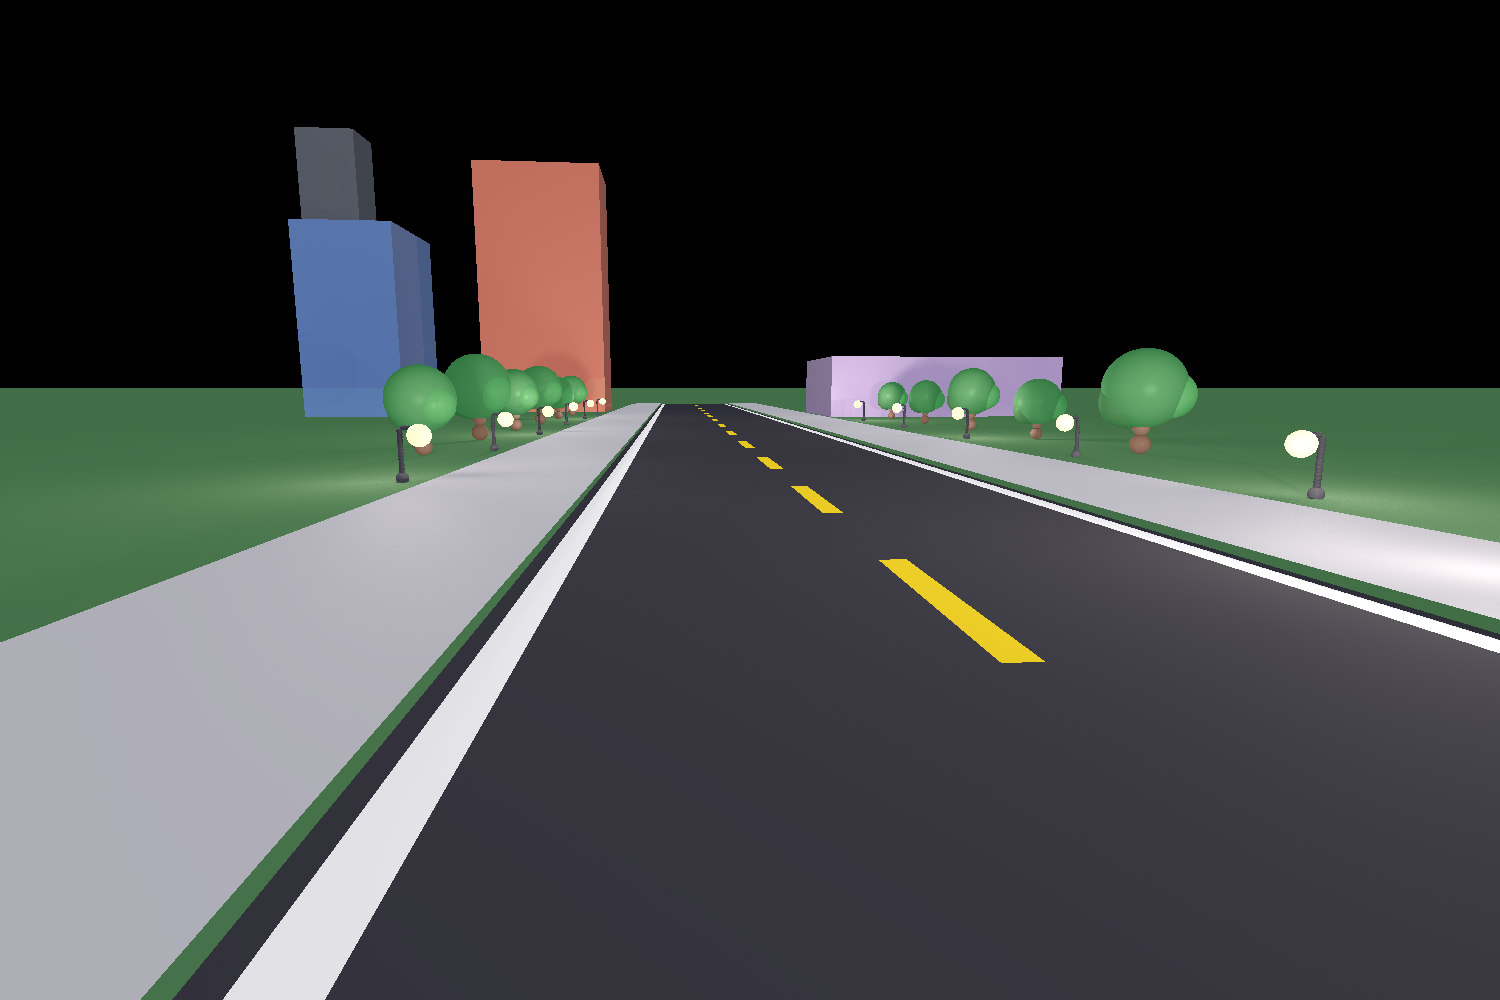
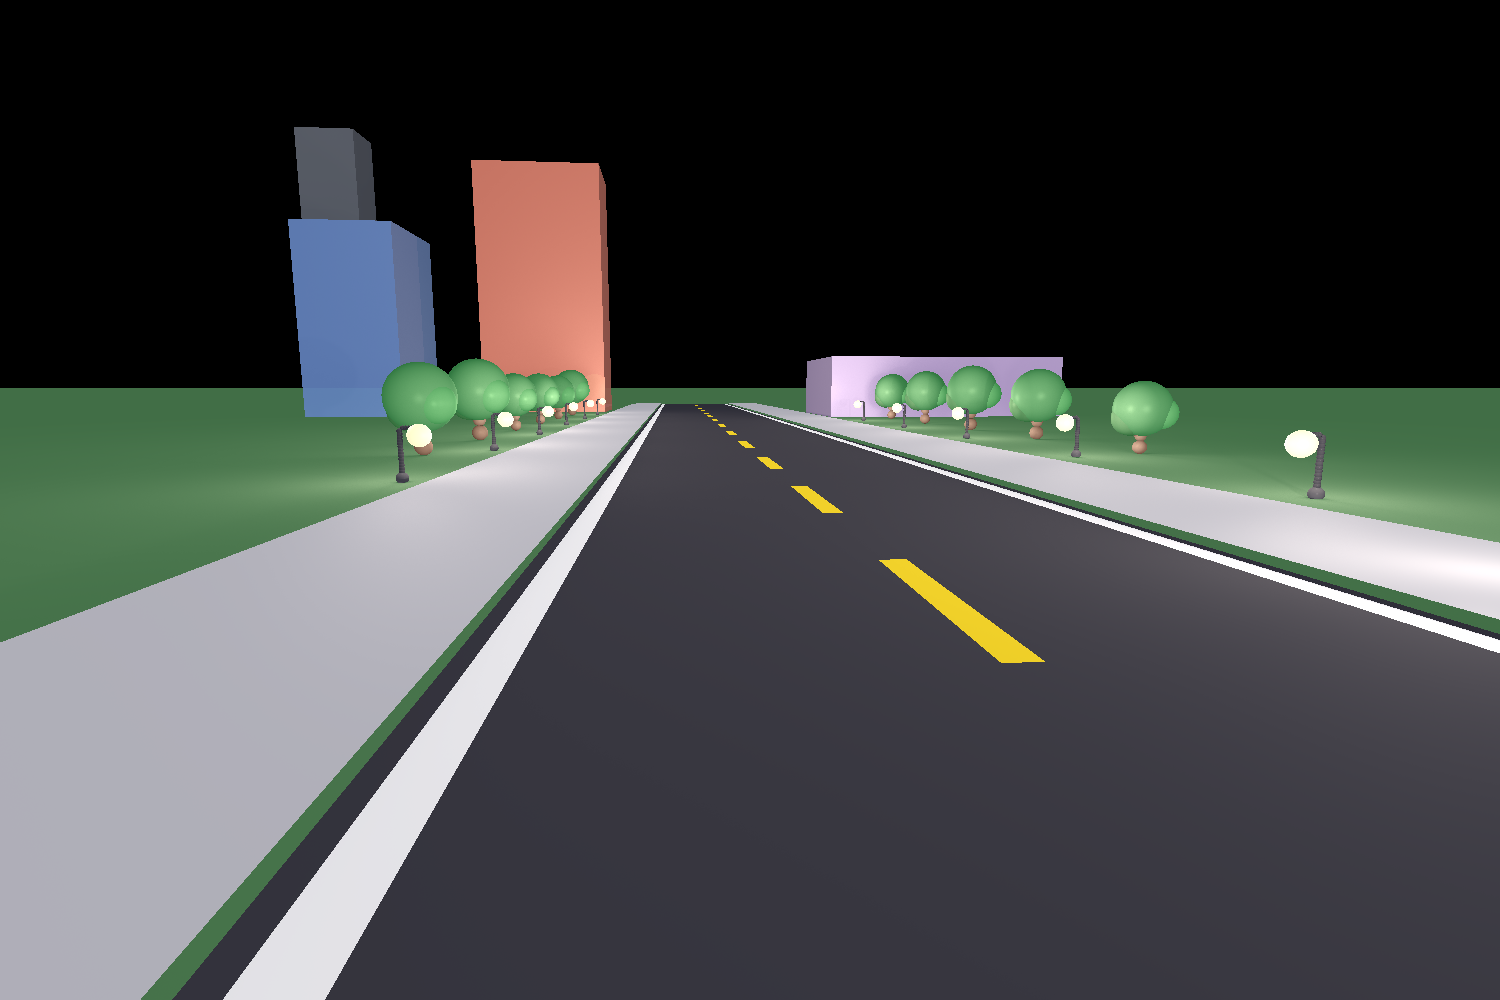
super extra soft shadow

diff --git a/unittests/renderer/StreetSceneTest.java b/unittests/renderer/StreetSceneTest.java
@@ -115,42 +115,45 @@ public class StreetSceneTest {
         scene.geometries.add(geometries.toArray(new Intersectable[0]));
 
         // ===== Lighting =====
-        scene.setAmbientLight(new AmbientLight(new Color(20,20,25)));
-        scene.lights.add(new DirectionalLight(new Color(90,80,70), new Vector(0.4,-0.6,-0.7)));
-        scene.lights.add(new DirectionalLight(new Color(30,35,40), new Vector(-0.2,-0.3,0.5)));
+        scene.setAmbientLight(new AmbientLight(new Color(20, 20, 25)));
+        scene.lights.add(new DirectionalLight(new Color(90, 80, 70), new Vector(0.4, -0.6, -0.7)));
+        scene.lights.add(new DirectionalLight(new Color(30, 35, 40), new Vector(-0.2, -0.3, 0.5)));
 
-        // soft-area street lamps: 300 samples each
-        for (int i = 0; i < 6; i += 2) {
+// soft-area street lamps: 300 samples each
+        for (int i = 0; i < 6; i++) {
             double zLeft  = -40 - i * 50;
             double zRight = zLeft + 25;
             scene.lights.add(
-                    new PointLight(new Color(100,90,80), new Point(-50,8,zLeft))
+                    new PointLight(new Color(100, 90, 80), new Point(-50, 8, zLeft))
                             .setKl(0.001).setKq(0.0005)
-                            .setRadius(2.0).setNumSamples(81)
+                            .setRadius(10.0)      // larger disk for visible penumbra
+                            .setNumSamples(300)   // match your “300 samples” comment
             );
             scene.lights.add(
-                    new PointLight(new Color(100,90,80), new Point(55,8,zRight))
+                    new PointLight(new Color(100, 90, 80), new Point(55, 8, zRight))
                             .setKl(0.001).setKq(0.0005)
-                            .setRadius(2.0).setNumSamples(81)
+                            .setRadius(10.0)
+                            .setNumSamples(300)
             );
         }
 
-        // additional area lights: 300 samples each
+// additional area lights: 300 samples each
         scene.lights.add(
-                new PointLight(new Color(80,70,60), new Point(-150,40,-295))
+                new PointLight(new Color(80, 70, 60), new Point(-150, 40, -295))
                         .setKl(0.0003).setKq(0.00015)
-                        .setRadius(1.5).setNumSamples(81)
+                        .setRadius(1.5).setNumSamples(300)
         );
         scene.lights.add(
-                new PointLight(new Color(80,70,60), new Point(-80,60,-350))
+                new PointLight(new Color(80, 70, 60), new Point(-80, 60, -350))
                         .setKl(0.0003).setKq(0.00015)
-                        .setRadius(1.5).setNumSamples(81)
+                        .setRadius(1.5).setNumSamples(300)
         );
         scene.lights.add(
-                new PointLight(new Color(120,110,100), new Point(35,6,20))
+                new PointLight(new Color(120, 110, 100), new Point(35, 6, 20))
                         .setKl(0.0005).setKq(0.0003)
-                        .setRadius(1.0).setNumSamples(81)
+                        .setRadius(1.0).setNumSamples(300)
         );
+
 
         // ===== Camera Setup with Multithreading & Logging =====
         Camera camera = cameraBuilder
